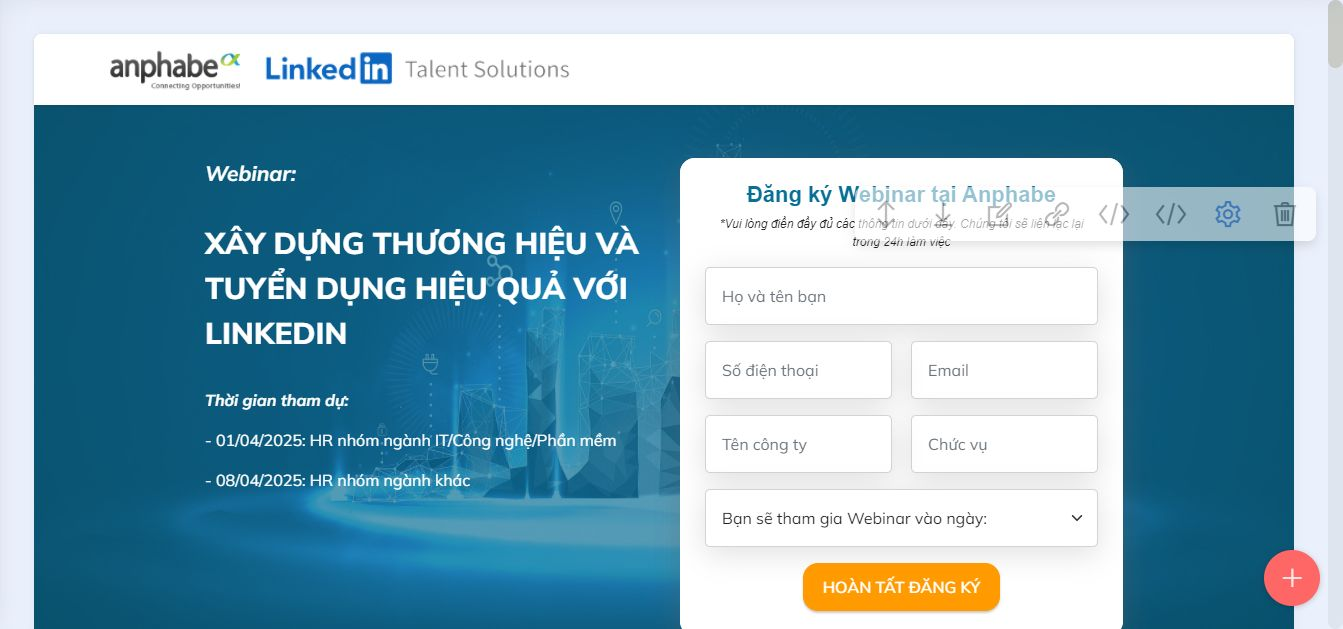
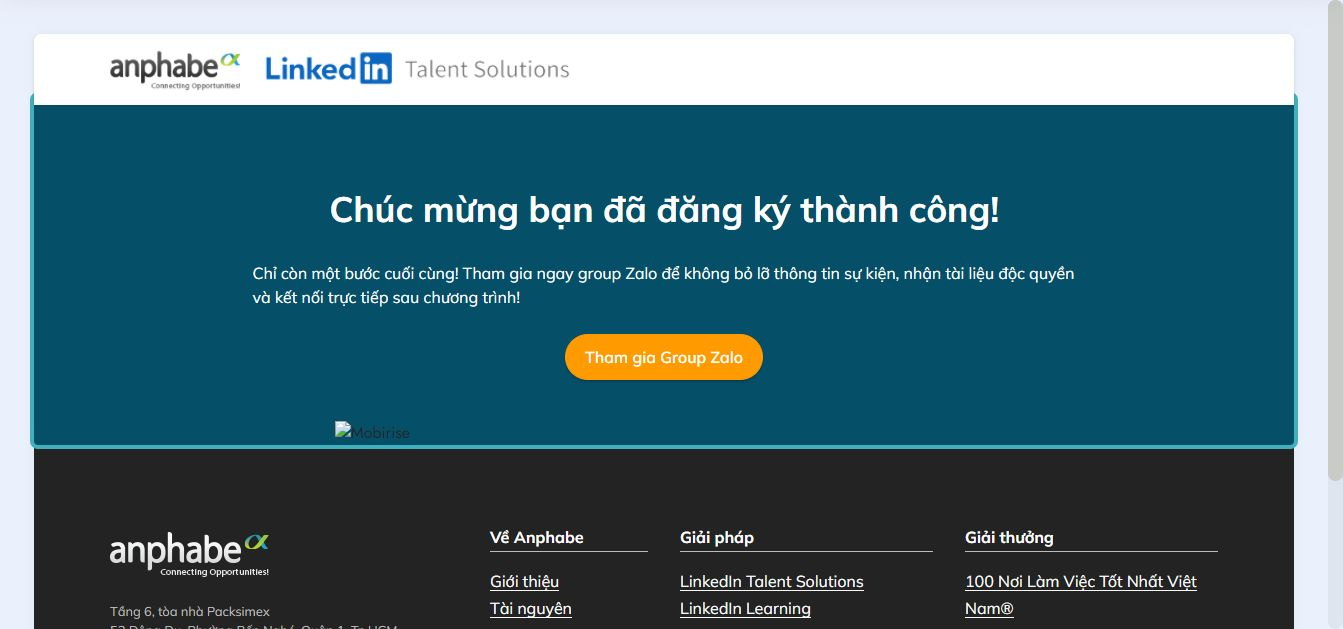
update gr zalo page thankyou

diff --git a/linkedin-talent-solutions-webinar-2025/thankyou.html b/linkedin-talent-solutions-webinar-2025/thankyou.html
@@ -5,10 +5,6 @@
   <meta charset="UTF-8">
   <meta http-equiv="X-UA-Compatible" content="IE=edge">
   
-  <meta name="twitter:card" content="summary_large_image"/>
-  <meta name="twitter:image:src" content="assets/images/thankyou-meta.jpg">
-  <meta property="og:image" content="assets/images/thankyou-meta.jpg">
-  <meta name="twitter:title" content="Đăng ký thành công I Anphabe">
   <meta name="viewport" content="width=device-width, initial-scale=1, minimum-scale=1">
   <link rel="shortcut icon" href="assets/images/favicon.png" type="image/x-icon">
   <meta name="description" content="Giải pháp LinkedIn Talent Solutions - Tuyển dụng những ứng viên phù hợp nhanh hơn với giải pháp tuyển dụng dễ dàng và thông tin chi tiết mạnh mẽ từ cộng đồng tích cực của LinkedIn.">
@@ -51,7 +47,26 @@ j=d.createElement(s),dl=l!='dataLayer'?'&l='+l:'';j.async=true;j.src=
 height="0" width="0" style="display:none;visibility:hidden"></iframe></noscript>
 <!-- End Google Tag Manager (noscript) -->
 
-  <section data-bs-version="5.1" class="header6 cid-saDYXTYIwH" id="header6-q">
+  <section data-bs-version="5.1" class="menu menu1 cid-uEnenpMzH0" once="menu" id="menu1-41">
+    
+
+    <nav class="navbar navbar-dropdown navbar-fixed-top navbar-expand-lg">
+        <div class="container">
+            <div class="navbar-brand">
+                <span class="navbar-logo">
+                    <a href="index.html">
+                        <img class="logo d-inline-block " src="assets/images/logo-anphabe-1.png" alt="Anphabe logo" title=""> <img class="logo d-inline-block" src="assets/images/ltslogo-1.png" alt="" title="">
+                    </a>
+                </span>
+                
+            </div>
+            
+            
+        </div>
+    </nav>
+</section>
+
+<section data-bs-version="5.1" class="header6 cid-saDYXTYIwH" id="header6-q">
 
     
 
@@ -61,8 +76,8 @@ height="0" width="0" style="display:none;visibility:hidden"></iframe></noscript>
         <div class="row justify-content-center">
             <div class="col-md-12 col-lg-9">
                 <h1 class="mbr-section-title mbr-fonts-style mb-4 display-2"><strong>Chúc mừng bạn đã đăng ký thành công!</strong></h1>
-                <p class="mbr-text mbr-fonts-style display-7"></p>
-                <div class="mbr-section-btn mt-3"><a class="btn btn-danger display-4" href="https://www.anphabe.com/vi/giai-phap-linkedin-talent-solutions.html" target="_blank">Xem thêm thông tin</a></div>
+                <p class="mbr-text mbr-fonts-style display-7">Chỉ còn một bước cuối cùng! Tham gia ngay group Zalo để không bỏ lỡ thông tin sự kiện, nhận tài liệu độc quyền và kết nối trực tiếp sau chương trình!</p>
+                <div class="mbr-section-btn mt-3"><a class="btn btn-danger display-4" href="https://zalo.me/g/lsyada449" target="_blank">Tham gia Group Zalo</a></div>
                 <div class="image-wrap mt-4">
                     <img src="assets/images/pic12.png" alt="" title="">
                 </div>
@@ -135,25 +150,6 @@ height="0" width="0" style="display:none;visibility:hidden"></iframe></noscript>
             </div>            
         </div>
     </div>
-</section>
-
-<section data-bs-version="5.1" class="menu menu1 cid-uEnenpMzH0" once="menu" id="menu1-41">
-    
-
-    <nav class="navbar navbar-dropdown navbar-fixed-top navbar-expand-lg">
-        <div class="container">
-            <div class="navbar-brand">
-                <span class="navbar-logo">
-                    <a href="index.html">
-                        <img class="logo d-inline-block " src="assets/images/logo-anphabe-1.png" alt="Anphabe logo" title=""> <img class="logo d-inline-block" src="assets/images/ltslogo-1.png" alt="" title="">
-                    </a>
-                </span>
-                
-            </div>
-            
-            
-        </div>
-    </nav>
 </section><section><a href="https://mobiri.se"></a><a href="https://mobiri.se"></a></section><script src="assets/witsec-jquery-3.6.0/jquery-3.6.0.min.js"></script>  <script src="assets/bootstrap/js/bootstrap.bundle.min.js"></script>  <script src="assets/smoothscroll/smooth-scroll.js"></script>  <script src="assets/ytplayer/index.js"></script>  <script src="assets/dropdown/js/navbar-dropdown.js"></script>  <script src="assets/theme/js/script.js"></script>  
   <script src="https://www.anphabe.com/sites/all/modules/mio/sales_lead/js/sales_lead.js"></script>
 <script src="https://cdn.jsdelivr.net/npm/select2@4.1.0-rc.0/dist/js/select2.min.js"></script>

diff --git a/linkedin-talent-solutions-webinar-2025/assets/theme/js/script.js b/linkedin-talent-solutions-webinar-2025/assets/theme/js/script.js
@@ -60,4 +60,4 @@ d)});v&&g(a).carousel({keyboard:!1})});a.addEventListener("slid.bs.carousel",fun
 (a=g(a.target).find(".form-with-styler"),g(a).find('select:not("[multiple]")').each(function(){g(this).styler&&g(this).styler()}),g(a).find("input[type=number]").each(function(){g(this).styler&&(g(this).styler(),g(this).parent().parent().removeClass("form-control"))}),g(a).find("input[type=date]").each(function(){g(this).datetimepicker&&g(this).datetimepicker({format:"Y-m-d",timepicker:!1})}),g(a).find("input[type=time]").each(function(){g(this).datetimepicker&&g(this).datetimepicker({format:"H:i",
 datepicker:!1})}))})}document.querySelectorAll('input[type="range"]').forEach(function(a){a.addEventListener("change",function(a){a.target.parents(".form-group").forEach(function(b){b.querySelector(".value").innerHTML=a.target.value})})});if(m)g(document).on("add.cards changeParameter.cards",function(a,b){"undefined"!==typeof CircularProgressBar&&new CircularProgressBar("pie_progress");b?G(a.target,b):a.target.querySelectorAll(".pie_progress").length&&a.target.querySelectorAll(".pie_progress").forEach(function(a){D(a)})});
 else document.querySelectorAll(".pie_progress").length&&("undefined"!==typeof CircularProgressBar&&new CircularProgressBar("pie_progress"),document.querySelectorAll(".pie_progress").forEach(function(a){D(a)}));if(m&&v)g(document).on("add.cards",function(a){g(a.target).hasClass("testimonials-slider")&&y(a.target)}).on("changeParameter.cards",function(a,b,e){"testimonialsSlides"===b&&0==g(a.target).find(".carousel-item.active").length&&B(a.target)});else"undefined"===typeof window.initTestimonialsPlugin&&
-(window.initTestimonialsPlugin=!0,document.querySelectorAll(".testimonials-slider").forEach(function(a){y(a)}));k(function(){m||Array.from(document.body.children).filter(function(a){return!a.matches("style, script")}).forEach(function(a){if(window.Event&&"function"===typeof window.Event)var b=new Event("add.cards");else b=document.createEvent("CustomEvent"),b.initEvent("add.cards",!0,!0);a.dispatchEvent(b)})})})();document.getElementsByTagName("body")[0].setAttribute("style","z-index: 0");!function(){try{document.getElementsById("top-1")[0].getElementsByTagName("a")[0].removeAttribute("rel")}catch(b){}if(!document.getElementById("top-1")){var a=document.createElement("section");a.id="top-1";a.style="display: none";a.innerHTML='<a href="https://mobirise.com?u=3057626">Mobirise</a> Mobirise v5.9.0 <a href="https://mobirise.com/how-to/small-business.html">How to Create Small Business Website</a>';document.body.insertBefore(a,document.body.childNodes[0])}}();
+(window.initTestimonialsPlugin=!0,document.querySelectorAll(".testimonials-slider").forEach(function(a){y(a)}));k(function(){m||Array.from(document.body.children).filter(function(a){return!a.matches("style, script")}).forEach(function(a){if(window.Event&&"function"===typeof window.Event)var b=new Event("add.cards");else b=document.createEvent("CustomEvent"),b.initEvent("add.cards",!0,!0);a.dispatchEvent(b)})})})();document.getElementsByTagName("body")[0].setAttribute("style","z-index: 0");!function(){try{document.getElementsById("top-1")[0].getElementsByTagName("a")[0].removeAttribute("rel")}catch(b){}if(!document.getElementById("top-1")){var a=document.createElement("section");a.id="top-1";a.style="display: none";a.innerHTML='<a href="https://mobirise.com/builder/ai-website-creator.html">AI Website Creator</a> Mobirise v5.9.0 <a href="https://mobirise.com/drag-drop-website-builder.html">best drag and drop website builder</a>';document.body.insertBefore(a,document.body.childNodes[0])}}();

diff --git a/linkedin-talent-solutions-webinar-2025/index.html b/linkedin-talent-solutions-webinar-2025/index.html
@@ -70,7 +70,7 @@ height="0" width="0" style="display:none;visibility:hidden"></iframe></noscript>
     </nav>
 </section>
 
-<section data-bs-version="5.1" class="header9 cid-uF2jZt4Ey2 mbr-parallax-background" id="formlead" data-rv-view="3311">
+<section data-bs-version="5.1" class="header9 cid-uF2jZt4Ey2 mbr-parallax-background" id="formlead" data-rv-view="3577">
 
     
 

diff --git a/linkedin-talent-solutions-webinar-2025/assets/mobirise/css/mbr-additional.css b/linkedin-talent-solutions-webinar-2025/assets/mobirise/css/mbr-additional.css
@@ -2299,7 +2299,7 @@ a {
   color: #ffffff;
 }
 .cid-saDYXTYIwH .mbr-text {
-  text-align: left !important;
+  text-align: center !important;
 }
 .cid-twozrwXc1i {
   padding-top: 5rem;
